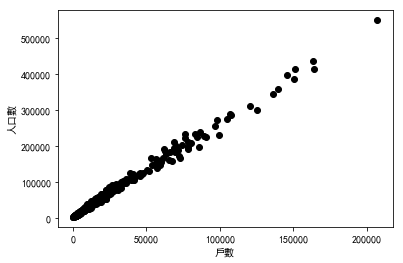
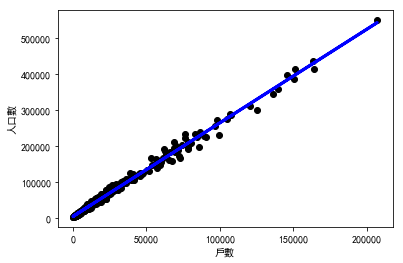
Site updated: 2017-06-18 17:50:01

diff --git a/2017/06/18/python-drawing/index.html b/2017/06/18/python-drawing/index.html
@@ -6,14 +6,14 @@
   <title>Python-繪圖語法 | LION OR CAT</title>
   <meta name="viewport" content="width=device-width, initial-scale=1, maximum-scale=1">
   <meta name="description" content="matplotlib中文亂碼解決, 散佈圖">
-<meta name="keywords" content="matplotlib,繪圖">
+<meta name="keywords" content="matplotlib,繪圖,線性迴歸">
 <meta property="og:type" content="article">
 <meta property="og:title" content="Python-繪圖語法">
 <meta property="og:url" content="https://ccliao.github.io/2017/06/18/python-drawing/index.html">
 <meta property="og:site_name" content="LION OR CAT">
 <meta property="og:description" content="matplotlib中文亂碼解決, 散佈圖">
 <meta property="og:image" content="https://ccliao.github.io/images/scatter.png">
-<meta property="og:updated_time" content="2017-06-18T08:39:19.773Z">
+<meta property="og:updated_time" content="2017-06-18T09:49:37.566Z">
 <meta name="twitter:card" content="summary">
 <meta name="twitter:title" content="Python-繪圖語法">
 <meta name="twitter:description" content="matplotlib中文亂碼解決, 散佈圖">
@@ -98,8 +98,9 @@
 <p>方法二：<br><code>python
 plt.xlabel(&#39;戶數&#39;,fontproperties=&#39;SimHei&#39;)</code></p>
 <p>黑體（SimHei）<br>微軟正黑體(Microsoft JhengHei)</p>
-<h2 id="散佈圖"><a href="#散佈圖" class="headerlink" title="散佈圖"></a>散佈圖</h2><figure class="highlight plain"><table><tr><td class="gutter"><pre><div class="line">1</div><div class="line">2</div><div class="line">3</div><div class="line">4</div><div class="line">5</div><div class="line">6</div></pre></td><td class="code"><pre><div class="line">% pylab inline</div><div class="line"># matplotlib.rc(&apos;font&apos;, **&#123;&apos;sans-serif&apos; : &apos;SimHei&apos;,</div><div class="line">#                        &apos;family&apos; : &apos;sans-serif&apos;&#125;)</div><div class="line">plt.scatter(X,Y, color=&quot;black&quot;)</div><div class="line">plt.xlabel(&apos;戶數&apos;,fontproperties=&apos;SimHei&apos;)</div><div class="line">plt.ylabel(&apos;人口數&apos;,fontproperties=&apos;SimHei&apos;)</div></pre></td></tr></table></figure>
+<h2 id="線性迴歸-LinearRegression"><a href="#線性迴歸-LinearRegression" class="headerlink" title="線性迴歸(LinearRegression)"></a>線性迴歸(<a href="http://scikit-learn.org/stable/modules/generated/sklearn.linear_model.LinearRegression.html" target="_blank" rel="external">LinearRegression</a>)</h2><figure class="highlight plain"><table><tr><td class="gutter"><pre><div class="line">1</div><div class="line">2</div><div class="line">3</div><div class="line">4</div><div class="line">5</div><div class="line">6</div><div class="line">7</div><div class="line">8</div><div class="line">9</div><div class="line">10</div><div class="line">11</div><div class="line">12</div><div class="line">13</div><div class="line">14</div></pre></td><td class="code"><pre><div class="line">from sklearn.linear_model import LinearRegression</div><div class="line">X1 = X.iloc[0:len(X)].to_frame() #Convert Series to DataFrame</div><div class="line">Y1 = Y.iloc[0:len(Y)].to_frame()</div><div class="line">regr = LinearRegression()</div><div class="line">regr.fit(X1,Y1)</div><div class="line">regr.coef_ #係數</div><div class="line">regr.intercept_ #截距</div><div class="line">regr.predict(X1) #依線性迴歸公式計算Y值</div><div class="line">% pylab inline #繪製散佈圖</div><div class="line"># matplotlib.rc(&apos;font&apos;, **&#123;&apos;sans-serif&apos; : &apos;SimHei&apos;,</div><div class="line">#                        &apos;family&apos; : &apos;sans-serif&apos;&#125;)</div><div class="line">plt.scatter(X1,Y1, color=&quot;black&quot;)</div><div class="line">plt.xlabel(&apos;戶數&apos;,fontproperties=&apos;SimHei&apos;)</div><div class="line">plt.ylabel(&apos;人口數&apos;,fontproperties=&apos;SimHei&apos;)</div></pre></td></tr></table></figure>
 <p><img src="/images/scatter.png" alt="戶數與人口散佈圖"></p>
+<p>錯誤訊息：<br>執行regr.fit時，產生異常訊息<br><code>Found input variables with inconsistent numbers of samples: [1, 368]</code><br>處理方式：<br>錯誤原因是sklearn要求使用DataFrame，但原資料為Series，所以將資料重新reshape即可使用X.iloc[0:len(X)].to_frame()</p>
 
       
     </div>
@@ -107,7 +108,7 @@ plt.xlabel(&#39;戶數&#39;,fontproperties=&#39;SimHei&#39;)</code></p>
       <a data-url="https://ccliao.github.io/2017/06/18/python-drawing/" data-id="cj42fo9bv0005o0b2iwcn8iy8" class="article-share-link">Share</a>
       
       
-  <ul class="article-tag-list"><li class="article-tag-list-item"><a class="article-tag-list-link" href="/tags/matplotlib/">matplotlib</a></li><li class="article-tag-list-item"><a class="article-tag-list-link" href="/tags/繪圖/">繪圖</a></li></ul>
+  <ul class="article-tag-list"><li class="article-tag-list-item"><a class="article-tag-list-link" href="/tags/matplotlib/">matplotlib</a></li><li class="article-tag-list-item"><a class="article-tag-list-link" href="/tags/線性迴歸/">線性迴歸</a></li><li class="article-tag-list-item"><a class="article-tag-list-link" href="/tags/繪圖/">繪圖</a></li></ul>
 
     </footer>
   </div>
@@ -144,7 +145,7 @@ plt.xlabel(&#39;戶數&#39;,fontproperties=&#39;SimHei&#39;)</code></p>
   <div class="widget-wrap">
     <h3 class="widget-title">標籤</h3>
     <div class="widget">
-      <ul class="tag-list"><li class="tag-list-item"><a class="tag-list-link" href="/tags/Pandas/">Pandas</a></li><li class="tag-list-item"><a class="tag-list-link" href="/tags/matplotlib/">matplotlib</a></li><li class="tag-list-item"><a class="tag-list-link" href="/tags/爬蟲/">爬蟲</a></li><li class="tag-list-item"><a class="tag-list-link" href="/tags/相關係數/">相關係數</a></li><li class="tag-list-item"><a class="tag-list-link" href="/tags/經緯度/">經緯度</a></li><li class="tag-list-item"><a class="tag-list-link" href="/tags/繪圖/">繪圖</a></li></ul>
+      <ul class="tag-list"><li class="tag-list-item"><a class="tag-list-link" href="/tags/Pandas/">Pandas</a></li><li class="tag-list-item"><a class="tag-list-link" href="/tags/matplotlib/">matplotlib</a></li><li class="tag-list-item"><a class="tag-list-link" href="/tags/爬蟲/">爬蟲</a></li><li class="tag-list-item"><a class="tag-list-link" href="/tags/相關係數/">相關係數</a></li><li class="tag-list-item"><a class="tag-list-link" href="/tags/經緯度/">經緯度</a></li><li class="tag-list-item"><a class="tag-list-link" href="/tags/線性迴歸/">線性迴歸</a></li><li class="tag-list-item"><a class="tag-list-link" href="/tags/繪圖/">繪圖</a></li></ul>
     </div>
   </div>
 
@@ -154,7 +155,7 @@ plt.xlabel(&#39;戶數&#39;,fontproperties=&#39;SimHei&#39;)</code></p>
   <div class="widget-wrap">
     <h3 class="widget-title">標籤雲</h3>
     <div class="widget tagcloud">
-      <a href="/tags/Pandas/" style="font-size: 10px;">Pandas</a> <a href="/tags/matplotlib/" style="font-size: 10px;">matplotlib</a> <a href="/tags/爬蟲/" style="font-size: 10px;">爬蟲</a> <a href="/tags/相關係數/" style="font-size: 10px;">相關係數</a> <a href="/tags/經緯度/" style="font-size: 10px;">經緯度</a> <a href="/tags/繪圖/" style="font-size: 20px;">繪圖</a>
+      <a href="/tags/Pandas/" style="font-size: 10px;">Pandas</a> <a href="/tags/matplotlib/" style="font-size: 10px;">matplotlib</a> <a href="/tags/爬蟲/" style="font-size: 10px;">爬蟲</a> <a href="/tags/相關係數/" style="font-size: 10px;">相關係數</a> <a href="/tags/經緯度/" style="font-size: 10px;">經緯度</a> <a href="/tags/線性迴歸/" style="font-size: 10px;">線性迴歸</a> <a href="/tags/繪圖/" style="font-size: 20px;">繪圖</a>
     </div>
   </div>
 

diff --git a/tags/線性迴歸/index.html b/tags/線性迴歸/index.html
@@ -3,21 +3,14 @@
 <head>
   <meta charset="utf-8">
   
-  <title>Python-統計語法 | LION OR CAT</title>
+  <title>Tag: 線性迴歸 | LION OR CAT</title>
   <meta name="viewport" content="width=device-width, initial-scale=1, maximum-scale=1">
-  <meta name="description" content="散佈圖,相關係數">
-<meta name="keywords" content="繪圖,相關係數">
-<meta property="og:type" content="article">
-<meta property="og:title" content="Python-統計語法">
-<meta property="og:url" content="https://ccliao.github.io/2017/06/18/python-statistics/index.html">
+  <meta property="og:type" content="website">
+<meta property="og:title" content="LION OR CAT">
+<meta property="og:url" content="https://ccliao.github.io/tags/線性迴歸/index.html">
 <meta property="og:site_name" content="LION OR CAT">
-<meta property="og:description" content="散佈圖,相關係數">
-<meta property="og:image" content="https://ccliao.github.io/images/corr.png">
-<meta property="og:updated_time" content="2017-06-18T08:37:42.792Z">
 <meta name="twitter:card" content="summary">
-<meta name="twitter:title" content="Python-統計語法">
-<meta name="twitter:description" content="散佈圖,相關係數">
-<meta name="twitter:image" content="https://ccliao.github.io/images/corr.png">
+<meta name="twitter:title" content="LION OR CAT">
   
     <link rel="alternate" href="/atom.xml" title="LION OR CAT" type="application/atom+xml">
   
@@ -66,91 +59,39 @@
   </div>
 </header>
       <div class="outer">
-        <section id="main"><article id="post-python-statistics" class="article article-type-post" itemscope itemprop="blogPost">
-  <div class="article-meta">
-    <a href="/2017/06/18/python-statistics/" class="article-date">
-  <time datetime="2017-06-18T04:34:06.000Z" itemprop="datePublished">2017-06-18</time>
-</a>
-    
-  <div class="article-category">
-    <a class="article-category-link" href="/categories/Python/">Python</a>
-  </div>
-
-  </div>
-  <div class="article-inner">
-    
-    
-      <header class="article-header">
-        
+        <section id="main">
   
-    <h1 class="article-title" itemprop="name">
-      Python-統計語法
+  
+    
+    
+      
+      
+      <section class="archives-wrap">
+        <div class="archive-year-wrap">
+          <a href="/archives/2017" class="archive-year">2017</a>
+        </div>
+        <div class="archives">
+    
+    <article class="archive-article archive-type-post">
+  <div class="archive-article-inner">
+    <header class="archive-article-header">
+      <a href="/2017/06/18/python-drawing/" class="archive-article-date">
+  <time datetime="2017-06-18T07:14:56.000Z" itemprop="datePublished">6月 18</time>
+</a>
+      
+  
+    <h1 itemprop="name">
+      <a class="archive-article-title" href="/2017/06/18/python-drawing/">Python-繪圖語法</a>
     </h1>
   
 
-      </header>
-    
-    <div class="article-entry" itemprop="articleBody">
-      
-        <p>散佈圖,相關係數</p>
-<h2 id=""><a href="#" class="headerlink" title=""></a><a id="more"></a></h2><h2 id="散佈圖-Scatter-Diagram-Scatter-Plot"><a href="#散佈圖-Scatter-Diagram-Scatter-Plot" class="headerlink" title="散佈圖(Scatter Diagram, Scatter Plot)"></a>散佈圖(Scatter Diagram, Scatter Plot)</h2><figure class="highlight python"><table><tr><td class="gutter"><pre><div class="line">1</div><div class="line">2</div></pre></td><td class="code"><pre><div class="line">rets = stockprice.pct_change(<span class="number">1</span>)  </div><div class="line">rets.plot(kind=<span class="string">'scatter'</span>, x=<span class="string">'Ctrip'</span>, y=<span class="string">'Lion'</span> )</div></pre></td></tr></table></figure>
-<p><img src="/images/corr.png" alt="散佈圖"></p>
-<h2 id="相關係數"><a href="#相關係數" class="headerlink" title="相關係數"></a>相關係數</h2><p><code>rets.corr()</code></p>
-<table>
-<thead>
-<tr>
-<th></th>
-<th style="text-align:right">Ctrip</th>
-<th style="text-align:right">Lion</th>
-</tr>
-</thead>
-<tbody>
-<tr>
-<td> Ctrip</td>
-<td style="text-align:right">1.000000</td>
-<td style="text-align:right">0.059657</td>
-</tr>
-<tr>
-<td> Lion</td>
-<td style="text-align:right">0.059657</td>
-<td style="text-align:right">1.000000</td>
-</tr>
-</tbody>
-</table>
-
-      
-    </div>
-    <footer class="article-footer">
-      <a data-url="https://ccliao.github.io/2017/06/18/python-statistics/" data-id="cj42fo9bv0007o0b21mhivojf" class="article-share-link">Share</a>
-      
-      
-  <ul class="article-tag-list"><li class="article-tag-list-item"><a class="article-tag-list-link" href="/tags/相關係數/">相關係數</a></li><li class="article-tag-list-item"><a class="article-tag-list-link" href="/tags/繪圖/">繪圖</a></li></ul>
-
-    </footer>
+    </header>
   </div>
-  
-    
-<nav id="article-nav">
-  
-    <a href="/2017/06/18/python-drawing/" id="article-nav-newer" class="article-nav-link-wrap">
-      <strong class="article-nav-caption">Newer</strong>
-      <div class="article-nav-title">
-        
-          Python-繪圖語法
-        
-      </div>
-    </a>
-  
-  
-    <a href="/2017/06/18/python-pandas/" id="article-nav-older" class="article-nav-link-wrap">
-      <strong class="article-nav-caption">Older</strong>
-      <div class="article-nav-title">Python-Pandas語法</div>
-    </a>
-  
-</nav>
-
-  
 </article>
+  
+  
+    </div></section>
+  
 
 </section>
         

diff --git a/index.html b/index.html
@@ -100,7 +100,7 @@
       <a data-url="https://ccliao.github.io/2017/06/18/python-drawing/" data-id="cj42fo9bv0005o0b2iwcn8iy8" class="article-share-link">Share</a>
       
       
-  <ul class="article-tag-list"><li class="article-tag-list-item"><a class="article-tag-list-link" href="/tags/matplotlib/">matplotlib</a></li><li class="article-tag-list-item"><a class="article-tag-list-link" href="/tags/繪圖/">繪圖</a></li></ul>
+  <ul class="article-tag-list"><li class="article-tag-list-item"><a class="article-tag-list-link" href="/tags/matplotlib/">matplotlib</a></li><li class="article-tag-list-item"><a class="article-tag-list-link" href="/tags/線性迴歸/">線性迴歸</a></li><li class="article-tag-list-item"><a class="article-tag-list-link" href="/tags/繪圖/">繪圖</a></li></ul>
 
     </footer>
   </div>
@@ -316,7 +316,7 @@
   <div class="widget-wrap">
     <h3 class="widget-title">標籤</h3>
     <div class="widget">
-      <ul class="tag-list"><li class="tag-list-item"><a class="tag-list-link" href="/tags/Pandas/">Pandas</a></li><li class="tag-list-item"><a class="tag-list-link" href="/tags/matplotlib/">matplotlib</a></li><li class="tag-list-item"><a class="tag-list-link" href="/tags/爬蟲/">爬蟲</a></li><li class="tag-list-item"><a class="tag-list-link" href="/tags/相關係數/">相關係數</a></li><li class="tag-list-item"><a class="tag-list-link" href="/tags/經緯度/">經緯度</a></li><li class="tag-list-item"><a class="tag-list-link" href="/tags/繪圖/">繪圖</a></li></ul>
+      <ul class="tag-list"><li class="tag-list-item"><a class="tag-list-link" href="/tags/Pandas/">Pandas</a></li><li class="tag-list-item"><a class="tag-list-link" href="/tags/matplotlib/">matplotlib</a></li><li class="tag-list-item"><a class="tag-list-link" href="/tags/爬蟲/">爬蟲</a></li><li class="tag-list-item"><a class="tag-list-link" href="/tags/相關係數/">相關係數</a></li><li class="tag-list-item"><a class="tag-list-link" href="/tags/經緯度/">經緯度</a></li><li class="tag-list-item"><a class="tag-list-link" href="/tags/線性迴歸/">線性迴歸</a></li><li class="tag-list-item"><a class="tag-list-link" href="/tags/繪圖/">繪圖</a></li></ul>
     </div>
   </div>
 
@@ -326,7 +326,7 @@
   <div class="widget-wrap">
     <h3 class="widget-title">標籤雲</h3>
     <div class="widget tagcloud">
-      <a href="/tags/Pandas/" style="font-size: 10px;">Pandas</a> <a href="/tags/matplotlib/" style="font-size: 10px;">matplotlib</a> <a href="/tags/爬蟲/" style="font-size: 10px;">爬蟲</a> <a href="/tags/相關係數/" style="font-size: 10px;">相關係數</a> <a href="/tags/經緯度/" style="font-size: 10px;">經緯度</a> <a href="/tags/繪圖/" style="font-size: 20px;">繪圖</a>
+      <a href="/tags/Pandas/" style="font-size: 10px;">Pandas</a> <a href="/tags/matplotlib/" style="font-size: 10px;">matplotlib</a> <a href="/tags/爬蟲/" style="font-size: 10px;">爬蟲</a> <a href="/tags/相關係數/" style="font-size: 10px;">相關係數</a> <a href="/tags/經緯度/" style="font-size: 10px;">經緯度</a> <a href="/tags/線性迴歸/" style="font-size: 10px;">線性迴歸</a> <a href="/tags/繪圖/" style="font-size: 20px;">繪圖</a>
     </div>
   </div>
 

diff --git a/2017/06/13/hello-world/index.html b/2017/06/13/hello-world/index.html
@@ -140,7 +140,7 @@
   <div class="widget-wrap">
     <h3 class="widget-title">標籤</h3>
     <div class="widget">
-      <ul class="tag-list"><li class="tag-list-item"><a class="tag-list-link" href="/tags/Pandas/">Pandas</a></li><li class="tag-list-item"><a class="tag-list-link" href="/tags/matplotlib/">matplotlib</a></li><li class="tag-list-item"><a class="tag-list-link" href="/tags/爬蟲/">爬蟲</a></li><li class="tag-list-item"><a class="tag-list-link" href="/tags/相關係數/">相關係數</a></li><li class="tag-list-item"><a class="tag-list-link" href="/tags/經緯度/">經緯度</a></li><li class="tag-list-item"><a class="tag-list-link" href="/tags/繪圖/">繪圖</a></li></ul>
+      <ul class="tag-list"><li class="tag-list-item"><a class="tag-list-link" href="/tags/Pandas/">Pandas</a></li><li class="tag-list-item"><a class="tag-list-link" href="/tags/matplotlib/">matplotlib</a></li><li class="tag-list-item"><a class="tag-list-link" href="/tags/爬蟲/">爬蟲</a></li><li class="tag-list-item"><a class="tag-list-link" href="/tags/相關係數/">相關係數</a></li><li class="tag-list-item"><a class="tag-list-link" href="/tags/經緯度/">經緯度</a></li><li class="tag-list-item"><a class="tag-list-link" href="/tags/線性迴歸/">線性迴歸</a></li><li class="tag-list-item"><a class="tag-list-link" href="/tags/繪圖/">繪圖</a></li></ul>
     </div>
   </div>
 
@@ -150,7 +150,7 @@
   <div class="widget-wrap">
     <h3 class="widget-title">標籤雲</h3>
     <div class="widget tagcloud">
-      <a href="/tags/Pandas/" style="font-size: 10px;">Pandas</a> <a href="/tags/matplotlib/" style="font-size: 10px;">matplotlib</a> <a href="/tags/爬蟲/" style="font-size: 10px;">爬蟲</a> <a href="/tags/相關係數/" style="font-size: 10px;">相關係數</a> <a href="/tags/經緯度/" style="font-size: 10px;">經緯度</a> <a href="/tags/繪圖/" style="font-size: 20px;">繪圖</a>
+      <a href="/tags/Pandas/" style="font-size: 10px;">Pandas</a> <a href="/tags/matplotlib/" style="font-size: 10px;">matplotlib</a> <a href="/tags/爬蟲/" style="font-size: 10px;">爬蟲</a> <a href="/tags/相關係數/" style="font-size: 10px;">相關係數</a> <a href="/tags/經緯度/" style="font-size: 10px;">經緯度</a> <a href="/tags/線性迴歸/" style="font-size: 10px;">線性迴歸</a> <a href="/tags/繪圖/" style="font-size: 20px;">繪圖</a>
     </div>
   </div>
 

diff --git a/2017/06/16/map/index.html b/2017/06/16/map/index.html
@@ -163,7 +163,7 @@
   <div class="widget-wrap">
     <h3 class="widget-title">標籤</h3>
     <div class="widget">
-      <ul class="tag-list"><li class="tag-list-item"><a class="tag-list-link" href="/tags/Pandas/">Pandas</a></li><li class="tag-list-item"><a class="tag-list-link" href="/tags/matplotlib/">matplotlib</a></li><li class="tag-list-item"><a class="tag-list-link" href="/tags/爬蟲/">爬蟲</a></li><li class="tag-list-item"><a class="tag-list-link" href="/tags/相關係數/">相關係數</a></li><li class="tag-list-item"><a class="tag-list-link" href="/tags/經緯度/">經緯度</a></li><li class="tag-list-item"><a class="tag-list-link" href="/tags/繪圖/">繪圖</a></li></ul>
+      <ul class="tag-list"><li class="tag-list-item"><a class="tag-list-link" href="/tags/Pandas/">Pandas</a></li><li class="tag-list-item"><a class="tag-list-link" href="/tags/matplotlib/">matplotlib</a></li><li class="tag-list-item"><a class="tag-list-link" href="/tags/爬蟲/">爬蟲</a></li><li class="tag-list-item"><a class="tag-list-link" href="/tags/相關係數/">相關係數</a></li><li class="tag-list-item"><a class="tag-list-link" href="/tags/經緯度/">經緯度</a></li><li class="tag-list-item"><a class="tag-list-link" href="/tags/線性迴歸/">線性迴歸</a></li><li class="tag-list-item"><a class="tag-list-link" href="/tags/繪圖/">繪圖</a></li></ul>
     </div>
   </div>
 
@@ -173,7 +173,7 @@
   <div class="widget-wrap">
     <h3 class="widget-title">標籤雲</h3>
     <div class="widget tagcloud">
-      <a href="/tags/Pandas/" style="font-size: 10px;">Pandas</a> <a href="/tags/matplotlib/" style="font-size: 10px;">matplotlib</a> <a href="/tags/爬蟲/" style="font-size: 10px;">爬蟲</a> <a href="/tags/相關係數/" style="font-size: 10px;">相關係數</a> <a href="/tags/經緯度/" style="font-size: 10px;">經緯度</a> <a href="/tags/繪圖/" style="font-size: 20px;">繪圖</a>
+      <a href="/tags/Pandas/" style="font-size: 10px;">Pandas</a> <a href="/tags/matplotlib/" style="font-size: 10px;">matplotlib</a> <a href="/tags/爬蟲/" style="font-size: 10px;">爬蟲</a> <a href="/tags/相關係數/" style="font-size: 10px;">相關係數</a> <a href="/tags/經緯度/" style="font-size: 10px;">經緯度</a> <a href="/tags/線性迴歸/" style="font-size: 10px;">線性迴歸</a> <a href="/tags/繪圖/" style="font-size: 20px;">繪圖</a>
     </div>
   </div>
 

diff --git a/2017/06/18/python-pandas/index.html b/2017/06/18/python-pandas/index.html
@@ -166,7 +166,7 @@
   <div class="widget-wrap">
     <h3 class="widget-title">標籤</h3>
     <div class="widget">
-      <ul class="tag-list"><li class="tag-list-item"><a class="tag-list-link" href="/tags/Pandas/">Pandas</a></li><li class="tag-list-item"><a class="tag-list-link" href="/tags/matplotlib/">matplotlib</a></li><li class="tag-list-item"><a class="tag-list-link" href="/tags/爬蟲/">爬蟲</a></li><li class="tag-list-item"><a class="tag-list-link" href="/tags/相關係數/">相關係數</a></li><li class="tag-list-item"><a class="tag-list-link" href="/tags/經緯度/">經緯度</a></li><li class="tag-list-item"><a class="tag-list-link" href="/tags/繪圖/">繪圖</a></li></ul>
+      <ul class="tag-list"><li class="tag-list-item"><a class="tag-list-link" href="/tags/Pandas/">Pandas</a></li><li class="tag-list-item"><a class="tag-list-link" href="/tags/matplotlib/">matplotlib</a></li><li class="tag-list-item"><a class="tag-list-link" href="/tags/爬蟲/">爬蟲</a></li><li class="tag-list-item"><a class="tag-list-link" href="/tags/相關係數/">相關係數</a></li><li class="tag-list-item"><a class="tag-list-link" href="/tags/經緯度/">經緯度</a></li><li class="tag-list-item"><a class="tag-list-link" href="/tags/線性迴歸/">線性迴歸</a></li><li class="tag-list-item"><a class="tag-list-link" href="/tags/繪圖/">繪圖</a></li></ul>
     </div>
   </div>
 
@@ -176,7 +176,7 @@
   <div class="widget-wrap">
     <h3 class="widget-title">標籤雲</h3>
     <div class="widget tagcloud">
-      <a href="/tags/Pandas/" style="font-size: 10px;">Pandas</a> <a href="/tags/matplotlib/" style="font-size: 10px;">matplotlib</a> <a href="/tags/爬蟲/" style="font-size: 10px;">爬蟲</a> <a href="/tags/相關係數/" style="font-size: 10px;">相關係數</a> <a href="/tags/經緯度/" style="font-size: 10px;">經緯度</a> <a href="/tags/繪圖/" style="font-size: 20px;">繪圖</a>
+      <a href="/tags/Pandas/" style="font-size: 10px;">Pandas</a> <a href="/tags/matplotlib/" style="font-size: 10px;">matplotlib</a> <a href="/tags/爬蟲/" style="font-size: 10px;">爬蟲</a> <a href="/tags/相關係數/" style="font-size: 10px;">相關係數</a> <a href="/tags/經緯度/" style="font-size: 10px;">經緯度</a> <a href="/tags/線性迴歸/" style="font-size: 10px;">線性迴歸</a> <a href="/tags/繪圖/" style="font-size: 20px;">繪圖</a>
     </div>
   </div>
 

diff --git a/archives/2017/06/index.html b/archives/2017/06/index.html
@@ -187,7 +187,7 @@
   <div class="widget-wrap">
     <h3 class="widget-title">標籤</h3>
     <div class="widget">
-      <ul class="tag-list"><li class="tag-list-item"><a class="tag-list-link" href="/tags/Pandas/">Pandas</a></li><li class="tag-list-item"><a class="tag-list-link" href="/tags/matplotlib/">matplotlib</a></li><li class="tag-list-item"><a class="tag-list-link" href="/tags/爬蟲/">爬蟲</a></li><li class="tag-list-item"><a class="tag-list-link" href="/tags/相關係數/">相關係數</a></li><li class="tag-list-item"><a class="tag-list-link" href="/tags/經緯度/">經緯度</a></li><li class="tag-list-item"><a class="tag-list-link" href="/tags/繪圖/">繪圖</a></li></ul>
+      <ul class="tag-list"><li class="tag-list-item"><a class="tag-list-link" href="/tags/Pandas/">Pandas</a></li><li class="tag-list-item"><a class="tag-list-link" href="/tags/matplotlib/">matplotlib</a></li><li class="tag-list-item"><a class="tag-list-link" href="/tags/爬蟲/">爬蟲</a></li><li class="tag-list-item"><a class="tag-list-link" href="/tags/相關係數/">相關係數</a></li><li class="tag-list-item"><a class="tag-list-link" href="/tags/經緯度/">經緯度</a></li><li class="tag-list-item"><a class="tag-list-link" href="/tags/線性迴歸/">線性迴歸</a></li><li class="tag-list-item"><a class="tag-list-link" href="/tags/繪圖/">繪圖</a></li></ul>
     </div>
   </div>
 
@@ -197,7 +197,7 @@
   <div class="widget-wrap">
     <h3 class="widget-title">標籤雲</h3>
     <div class="widget tagcloud">
-      <a href="/tags/Pandas/" style="font-size: 10px;">Pandas</a> <a href="/tags/matplotlib/" style="font-size: 10px;">matplotlib</a> <a href="/tags/爬蟲/" style="font-size: 10px;">爬蟲</a> <a href="/tags/相關係數/" style="font-size: 10px;">相關係數</a> <a href="/tags/經緯度/" style="font-size: 10px;">經緯度</a> <a href="/tags/繪圖/" style="font-size: 20px;">繪圖</a>
+      <a href="/tags/Pandas/" style="font-size: 10px;">Pandas</a> <a href="/tags/matplotlib/" style="font-size: 10px;">matplotlib</a> <a href="/tags/爬蟲/" style="font-size: 10px;">爬蟲</a> <a href="/tags/相關係數/" style="font-size: 10px;">相關係數</a> <a href="/tags/經緯度/" style="font-size: 10px;">經緯度</a> <a href="/tags/線性迴歸/" style="font-size: 10px;">線性迴歸</a> <a href="/tags/繪圖/" style="font-size: 20px;">繪圖</a>
     </div>
   </div>
 

diff --git a/archives/2017/index.html b/archives/2017/index.html
@@ -187,7 +187,7 @@
   <div class="widget-wrap">
     <h3 class="widget-title">標籤</h3>
     <div class="widget">
-      <ul class="tag-list"><li class="tag-list-item"><a class="tag-list-link" href="/tags/Pandas/">Pandas</a></li><li class="tag-list-item"><a class="tag-list-link" href="/tags/matplotlib/">matplotlib</a></li><li class="tag-list-item"><a class="tag-list-link" href="/tags/爬蟲/">爬蟲</a></li><li class="tag-list-item"><a class="tag-list-link" href="/tags/相關係數/">相關係數</a></li><li class="tag-list-item"><a class="tag-list-link" href="/tags/經緯度/">經緯度</a></li><li class="tag-list-item"><a class="tag-list-link" href="/tags/繪圖/">繪圖</a></li></ul>
+      <ul class="tag-list"><li class="tag-list-item"><a class="tag-list-link" href="/tags/Pandas/">Pandas</a></li><li class="tag-list-item"><a class="tag-list-link" href="/tags/matplotlib/">matplotlib</a></li><li class="tag-list-item"><a class="tag-list-link" href="/tags/爬蟲/">爬蟲</a></li><li class="tag-list-item"><a class="tag-list-link" href="/tags/相關係數/">相關係數</a></li><li class="tag-list-item"><a class="tag-list-link" href="/tags/經緯度/">經緯度</a></li><li class="tag-list-item"><a class="tag-list-link" href="/tags/線性迴歸/">線性迴歸</a></li><li class="tag-list-item"><a class="tag-list-link" href="/tags/繪圖/">繪圖</a></li></ul>
     </div>
   </div>
 
@@ -197,7 +197,7 @@
   <div class="widget-wrap">
     <h3 class="widget-title">標籤雲</h3>
     <div class="widget tagcloud">
-      <a href="/tags/Pandas/" style="font-size: 10px;">Pandas</a> <a href="/tags/matplotlib/" style="font-size: 10px;">matplotlib</a> <a href="/tags/爬蟲/" style="font-size: 10px;">爬蟲</a> <a href="/tags/相關係數/" style="font-size: 10px;">相關係數</a> <a href="/tags/經緯度/" style="font-size: 10px;">經緯度</a> <a href="/tags/繪圖/" style="font-size: 20px;">繪圖</a>
+      <a href="/tags/Pandas/" style="font-size: 10px;">Pandas</a> <a href="/tags/matplotlib/" style="font-size: 10px;">matplotlib</a> <a href="/tags/爬蟲/" style="font-size: 10px;">爬蟲</a> <a href="/tags/相關係數/" style="font-size: 10px;">相關係數</a> <a href="/tags/經緯度/" style="font-size: 10px;">經緯度</a> <a href="/tags/線性迴歸/" style="font-size: 10px;">線性迴歸</a> <a href="/tags/繪圖/" style="font-size: 20px;">繪圖</a>
     </div>
   </div>
 

diff --git a/archives/index.html b/archives/index.html
@@ -187,7 +187,7 @@
   <div class="widget-wrap">
     <h3 class="widget-title">標籤</h3>
     <div class="widget">
-      <ul class="tag-list"><li class="tag-list-item"><a class="tag-list-link" href="/tags/Pandas/">Pandas</a></li><li class="tag-list-item"><a class="tag-list-link" href="/tags/matplotlib/">matplotlib</a></li><li class="tag-list-item"><a class="tag-list-link" href="/tags/爬蟲/">爬蟲</a></li><li class="tag-list-item"><a class="tag-list-link" href="/tags/相關係數/">相關係數</a></li><li class="tag-list-item"><a class="tag-list-link" href="/tags/經緯度/">經緯度</a></li><li class="tag-list-item"><a class="tag-list-link" href="/tags/繪圖/">繪圖</a></li></ul>
+      <ul class="tag-list"><li class="tag-list-item"><a class="tag-list-link" href="/tags/Pandas/">Pandas</a></li><li class="tag-list-item"><a class="tag-list-link" href="/tags/matplotlib/">matplotlib</a></li><li class="tag-list-item"><a class="tag-list-link" href="/tags/爬蟲/">爬蟲</a></li><li class="tag-list-item"><a class="tag-list-link" href="/tags/相關係數/">相關係數</a></li><li class="tag-list-item"><a class="tag-list-link" href="/tags/經緯度/">經緯度</a></li><li class="tag-list-item"><a class="tag-list-link" href="/tags/線性迴歸/">線性迴歸</a></li><li class="tag-list-item"><a class="tag-list-link" href="/tags/繪圖/">繪圖</a></li></ul>
     </div>
   </div>
 
@@ -197,7 +197,7 @@
   <div class="widget-wrap">
     <h3 class="widget-title">標籤雲</h3>
     <div class="widget tagcloud">
-      <a href="/tags/Pandas/" style="font-size: 10px;">Pandas</a> <a href="/tags/matplotlib/" style="font-size: 10px;">matplotlib</a> <a href="/tags/爬蟲/" style="font-size: 10px;">爬蟲</a> <a href="/tags/相關係數/" style="font-size: 10px;">相關係數</a> <a href="/tags/經緯度/" style="font-size: 10px;">經緯度</a> <a href="/tags/繪圖/" style="font-size: 20px;">繪圖</a>
+      <a href="/tags/Pandas/" style="font-size: 10px;">Pandas</a> <a href="/tags/matplotlib/" style="font-size: 10px;">matplotlib</a> <a href="/tags/爬蟲/" style="font-size: 10px;">爬蟲</a> <a href="/tags/相關係數/" style="font-size: 10px;">相關係數</a> <a href="/tags/經緯度/" style="font-size: 10px;">經緯度</a> <a href="/tags/線性迴歸/" style="font-size: 10px;">線性迴歸</a> <a href="/tags/繪圖/" style="font-size: 20px;">繪圖</a>
     </div>
   </div>
 

diff --git a/categories/Python/index.html b/categories/Python/index.html
@@ -149,7 +149,7 @@
   <div class="widget-wrap">
     <h3 class="widget-title">標籤</h3>
     <div class="widget">
-      <ul class="tag-list"><li class="tag-list-item"><a class="tag-list-link" href="/tags/Pandas/">Pandas</a></li><li class="tag-list-item"><a class="tag-list-link" href="/tags/matplotlib/">matplotlib</a></li><li class="tag-list-item"><a class="tag-list-link" href="/tags/爬蟲/">爬蟲</a></li><li class="tag-list-item"><a class="tag-list-link" href="/tags/相關係數/">相關係數</a></li><li class="tag-list-item"><a class="tag-list-link" href="/tags/經緯度/">經緯度</a></li><li class="tag-list-item"><a class="tag-list-link" href="/tags/繪圖/">繪圖</a></li></ul>
+      <ul class="tag-list"><li class="tag-list-item"><a class="tag-list-link" href="/tags/Pandas/">Pandas</a></li><li class="tag-list-item"><a class="tag-list-link" href="/tags/matplotlib/">matplotlib</a></li><li class="tag-list-item"><a class="tag-list-link" href="/tags/爬蟲/">爬蟲</a></li><li class="tag-list-item"><a class="tag-list-link" href="/tags/相關係數/">相關係數</a></li><li class="tag-list-item"><a class="tag-list-link" href="/tags/經緯度/">經緯度</a></li><li class="tag-list-item"><a class="tag-list-link" href="/tags/線性迴歸/">線性迴歸</a></li><li class="tag-list-item"><a class="tag-list-link" href="/tags/繪圖/">繪圖</a></li></ul>
     </div>
   </div>
 
@@ -159,7 +159,7 @@
   <div class="widget-wrap">
     <h3 class="widget-title">標籤雲</h3>
     <div class="widget tagcloud">
-      <a href="/tags/Pandas/" style="font-size: 10px;">Pandas</a> <a href="/tags/matplotlib/" style="font-size: 10px;">matplotlib</a> <a href="/tags/爬蟲/" style="font-size: 10px;">爬蟲</a> <a href="/tags/相關係數/" style="font-size: 10px;">相關係數</a> <a href="/tags/經緯度/" style="font-size: 10px;">經緯度</a> <a href="/tags/繪圖/" style="font-size: 20px;">繪圖</a>
+      <a href="/tags/Pandas/" style="font-size: 10px;">Pandas</a> <a href="/tags/matplotlib/" style="font-size: 10px;">matplotlib</a> <a href="/tags/爬蟲/" style="font-size: 10px;">爬蟲</a> <a href="/tags/相關係數/" style="font-size: 10px;">相關係數</a> <a href="/tags/經緯度/" style="font-size: 10px;">經緯度</a> <a href="/tags/線性迴歸/" style="font-size: 10px;">線性迴歸</a> <a href="/tags/繪圖/" style="font-size: 20px;">繪圖</a>
     </div>
   </div>
 

diff --git a/categories/QGIS/index.html b/categories/QGIS/index.html
@@ -111,7 +111,7 @@
   <div class="widget-wrap">
     <h3 class="widget-title">標籤</h3>
     <div class="widget">
-      <ul class="tag-list"><li class="tag-list-item"><a class="tag-list-link" href="/tags/Pandas/">Pandas</a></li><li class="tag-list-item"><a class="tag-list-link" href="/tags/matplotlib/">matplotlib</a></li><li class="tag-list-item"><a class="tag-list-link" href="/tags/爬蟲/">爬蟲</a></li><li class="tag-list-item"><a class="tag-list-link" href="/tags/相關係數/">相關係數</a></li><li class="tag-list-item"><a class="tag-list-link" href="/tags/經緯度/">經緯度</a></li><li class="tag-list-item"><a class="tag-list-link" href="/tags/繪圖/">繪圖</a></li></ul>
+      <ul class="tag-list"><li class="tag-list-item"><a class="tag-list-link" href="/tags/Pandas/">Pandas</a></li><li class="tag-list-item"><a class="tag-list-link" href="/tags/matplotlib/">matplotlib</a></li><li class="tag-list-item"><a class="tag-list-link" href="/tags/爬蟲/">爬蟲</a></li><li class="tag-list-item"><a class="tag-list-link" href="/tags/相關係數/">相關係數</a></li><li class="tag-list-item"><a class="tag-list-link" href="/tags/經緯度/">經緯度</a></li><li class="tag-list-item"><a class="tag-list-link" href="/tags/線性迴歸/">線性迴歸</a></li><li class="tag-list-item"><a class="tag-list-link" href="/tags/繪圖/">繪圖</a></li></ul>
     </div>
   </div>
 
@@ -121,7 +121,7 @@
   <div class="widget-wrap">
     <h3 class="widget-title">標籤雲</h3>
     <div class="widget tagcloud">
-      <a href="/tags/Pandas/" style="font-size: 10px;">Pandas</a> <a href="/tags/matplotlib/" style="font-size: 10px;">matplotlib</a> <a href="/tags/爬蟲/" style="font-size: 10px;">爬蟲</a> <a href="/tags/相關係數/" style="font-size: 10px;">相關係數</a> <a href="/tags/經緯度/" style="font-size: 10px;">經緯度</a> <a href="/tags/繪圖/" style="font-size: 20px;">繪圖</a>
+      <a href="/tags/Pandas/" style="font-size: 10px;">Pandas</a> <a href="/tags/matplotlib/" style="font-size: 10px;">matplotlib</a> <a href="/tags/爬蟲/" style="font-size: 10px;">爬蟲</a> <a href="/tags/相關係數/" style="font-size: 10px;">相關係數</a> <a href="/tags/經緯度/" style="font-size: 10px;">經緯度</a> <a href="/tags/線性迴歸/" style="font-size: 10px;">線性迴歸</a> <a href="/tags/繪圖/" style="font-size: 20px;">繪圖</a>
     </div>
   </div>
 

diff --git a/tags/Pandas/index.html b/tags/Pandas/index.html
@@ -111,7 +111,7 @@
   <div class="widget-wrap">
     <h3 class="widget-title">標籤</h3>
     <div class="widget">
-      <ul class="tag-list"><li class="tag-list-item"><a class="tag-list-link" href="/tags/Pandas/">Pandas</a></li><li class="tag-list-item"><a class="tag-list-link" href="/tags/matplotlib/">matplotlib</a></li><li class="tag-list-item"><a class="tag-list-link" href="/tags/爬蟲/">爬蟲</a></li><li class="tag-list-item"><a class="tag-list-link" href="/tags/相關係數/">相關係數</a></li><li class="tag-list-item"><a class="tag-list-link" href="/tags/經緯度/">經緯度</a></li><li class="tag-list-item"><a class="tag-list-link" href="/tags/繪圖/">繪圖</a></li></ul>
+      <ul class="tag-list"><li class="tag-list-item"><a class="tag-list-link" href="/tags/Pandas/">Pandas</a></li><li class="tag-list-item"><a class="tag-list-link" href="/tags/matplotlib/">matplotlib</a></li><li class="tag-list-item"><a class="tag-list-link" href="/tags/爬蟲/">爬蟲</a></li><li class="tag-list-item"><a class="tag-list-link" href="/tags/相關係數/">相關係數</a></li><li class="tag-list-item"><a class="tag-list-link" href="/tags/經緯度/">經緯度</a></li><li class="tag-list-item"><a class="tag-list-link" href="/tags/線性迴歸/">線性迴歸</a></li><li class="tag-list-item"><a class="tag-list-link" href="/tags/繪圖/">繪圖</a></li></ul>
     </div>
   </div>
 
@@ -121,7 +121,7 @@
   <div class="widget-wrap">
     <h3 class="widget-title">標籤雲</h3>
     <div class="widget tagcloud">
-      <a href="/tags/Pandas/" style="font-size: 10px;">Pandas</a> <a href="/tags/matplotlib/" style="font-size: 10px;">matplotlib</a> <a href="/tags/爬蟲/" style="font-size: 10px;">爬蟲</a> <a href="/tags/相關係數/" style="font-size: 10px;">相關係數</a> <a href="/tags/經緯度/" style="font-size: 10px;">經緯度</a> <a href="/tags/繪圖/" style="font-size: 20px;">繪圖</a>
+      <a href="/tags/Pandas/" style="font-size: 10px;">Pandas</a> <a href="/tags/matplotlib/" style="font-size: 10px;">matplotlib</a> <a href="/tags/爬蟲/" style="font-size: 10px;">爬蟲</a> <a href="/tags/相關係數/" style="font-size: 10px;">相關係數</a> <a href="/tags/經緯度/" style="font-size: 10px;">經緯度</a> <a href="/tags/線性迴歸/" style="font-size: 10px;">線性迴歸</a> <a href="/tags/繪圖/" style="font-size: 20px;">繪圖</a>
     </div>
   </div>
 
